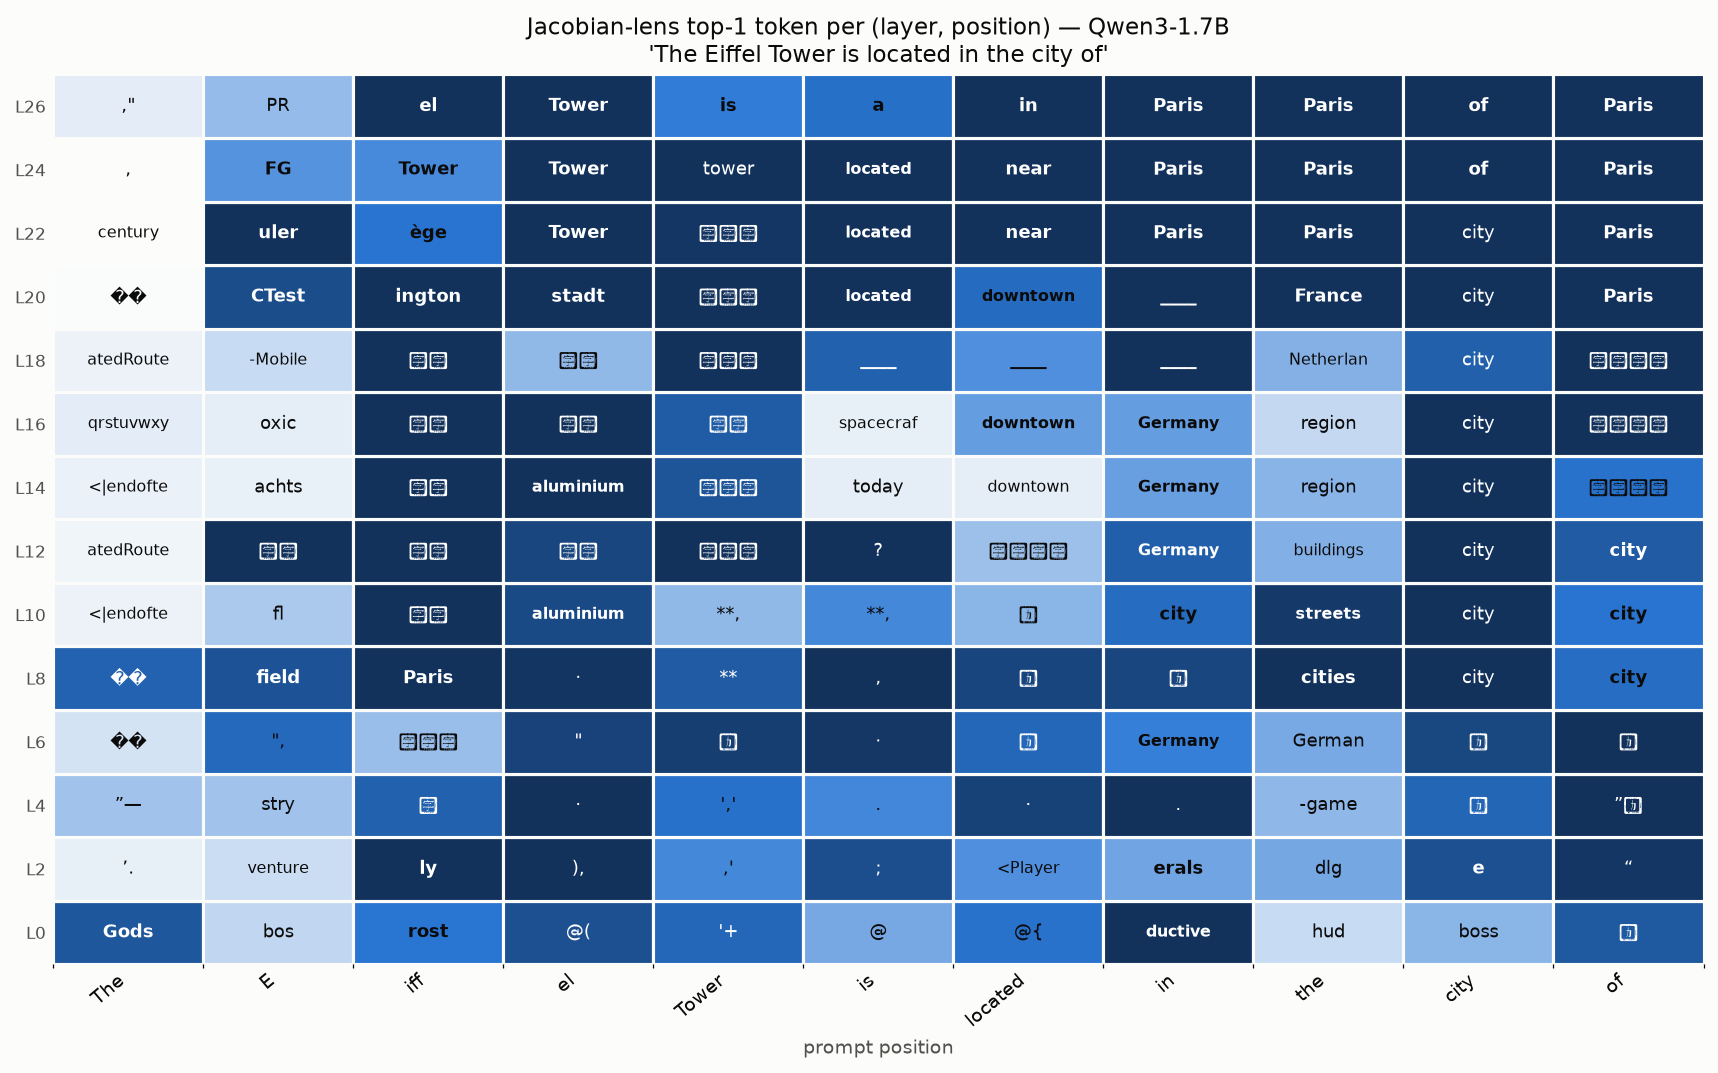
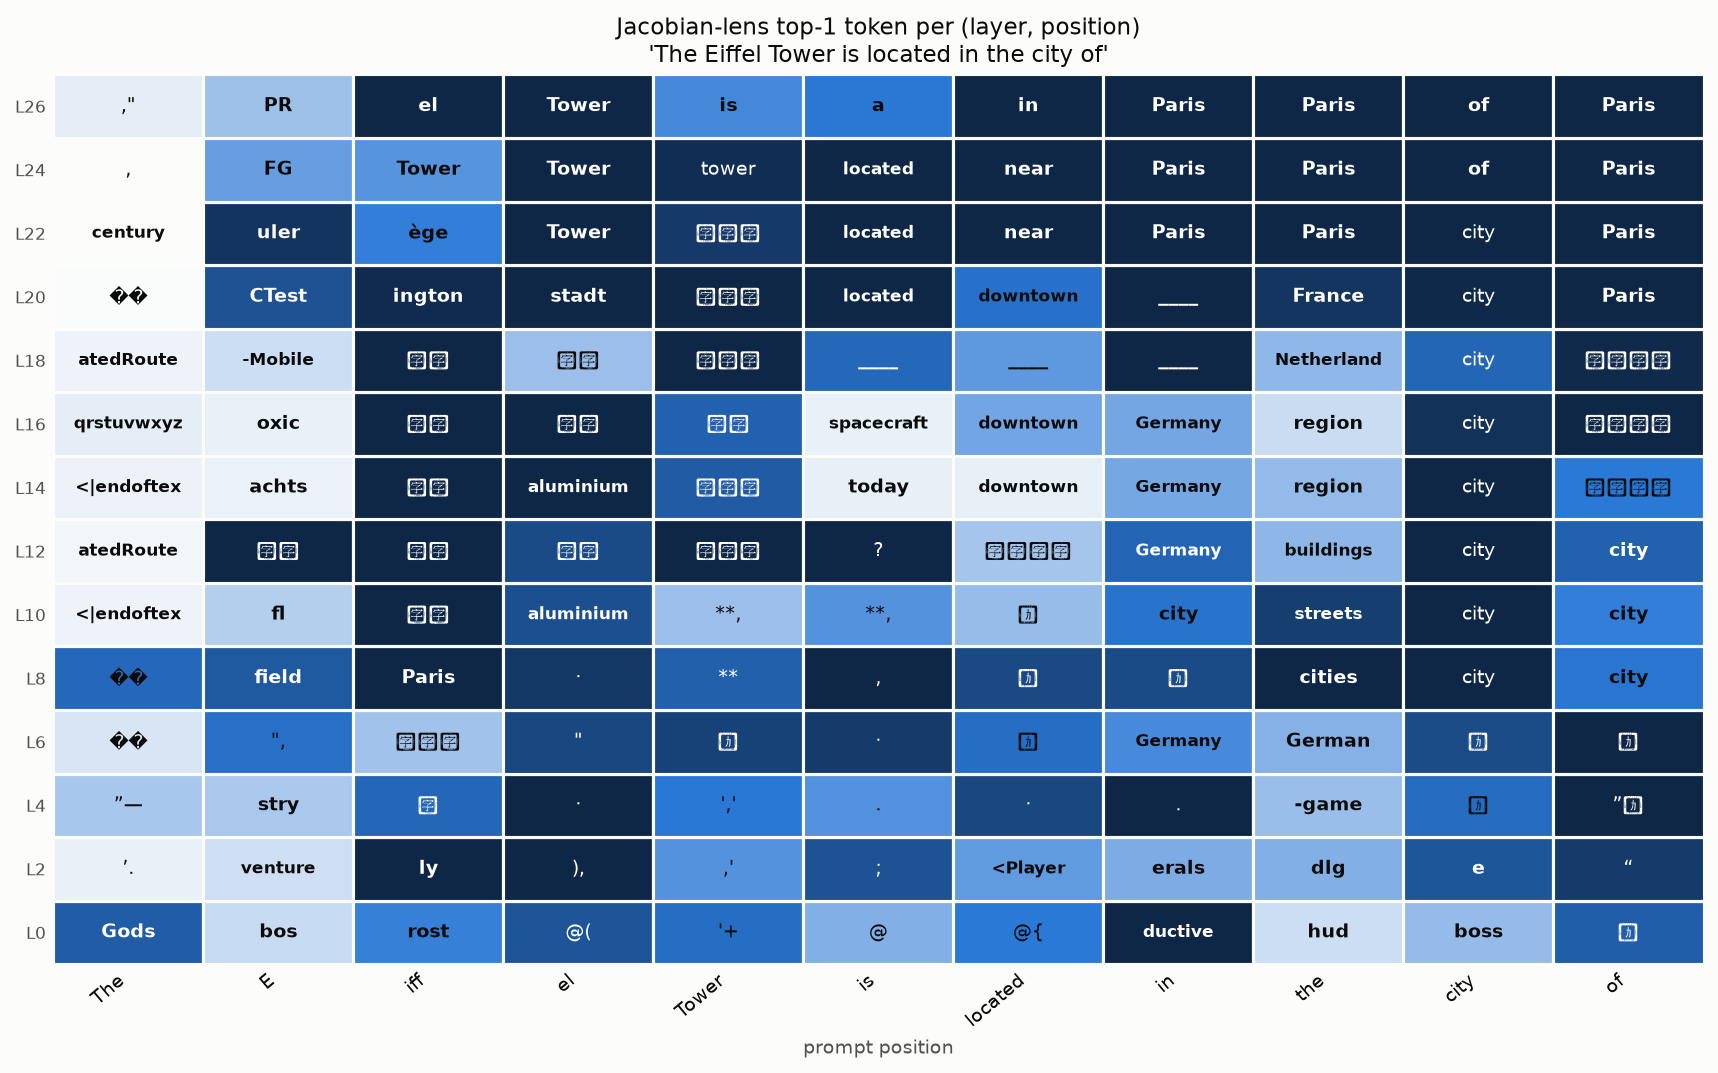
docs(jacobian_lens): single token-grid figure + reproducible, layer-parametrized script
Keep only the layer×position token grid ("what the model has in mind"); drop the
top-k-per-position and rank figures. Add make_token_grid.py (committed) that
reproduces it and takes --layer for a single-layer top-k view.

diff --git a/docs/jacobian_lens/make_token_grid.py b/docs/jacobian_lens/make_token_grid.py
@@ -1,0 +1,135 @@
+"""Render the Jacobian-lens token grid — the tokens a model has "in mind".
+
+Two modes:
+  * default: top-1 J-lens token at every (layer, position)  ["token grid by layer"]
+  * --layer L: top-k J-lens tokens per position at a single layer L  [parametrised]
+
+Reproduces the figure in the README. Runs under HF (needs all-layer residuals +
+the fitted lens); the readouts are identical to what vllm-lens captures during
+vLLM inference (verified bit-for-bit). Requires: transformers, torch, matplotlib.
+
+    python make_token_grid.py --model Qwen/Qwen3-1.7B --lens qwen3-1.7b-lens.pt \
+        --prompt "The Eiffel Tower is located in the city of" --out token_grid_by_layer.png
+    # single-layer top-k view:
+    python make_token_grid.py --model ... --lens ... --layer 22 --k 6 --out topk.png
+"""
+
+from __future__ import annotations
+
+import argparse
+
+import matplotlib
+import torch
+import transformers
+
+matplotlib.use("Agg")
+import matplotlib.pyplot as plt
+from matplotlib.colors import LinearSegmentedColormap
+
+INK, MUTED = "#0b0b0b", "#52514e"
+BLUES = LinearSegmentedColormap.from_list("bb", ["#fcfcfb", "#2a78d6", "#0e2747"])
+
+
+def load(model_name, lens_path):
+    hf = (
+        transformers.AutoModelForCausalLM.from_pretrained(model_name, dtype=torch.float32)
+        .cuda()
+        .eval()
+    )
+    tok = transformers.AutoTokenizer.from_pretrained(model_name)
+    ck = torch.load(lens_path, map_location="cpu", weights_only=True)
+    J = {int(k): v.float().cuda() for k, v in ck["J"].items()}
+    return hf, tok, J
+
+
[email redacted]_grad()
+def jlens(hf, tok, J, prompt, layer, k):
+    """Top-k tokens + probs at `layer` for every position."""
+    ids = tok(prompt, return_tensors="pt").input_ids.cuda()
+    prompt_toks = [tok.decode([t]) for t in ids[0]]
+    hs = hf(ids, output_hidden_states=True).hidden_states
+    h = hs[layer + 1][0].float()
+    logits = hf.lm_head(hf.model.norm((h @ J[layer].T).to(hf.lm_head.weight.dtype)))
+    p, idx = logits.softmax(-1).topk(k, dim=-1)  # [seq, k]
+    words = [[tok.decode([int(i)]).strip() or "·" for i in row] for row in idx]
+    return prompt_toks, words, p.tolist()
+
+
+def _cell(ax, x, y, word, prob, prompt_tok, bold_top=False):
+    ax.add_patch(plt.Rectangle((x, y), 1, 1, facecolor=BLUES(min(prob * 2.0, 1.0)),
+                               edgecolor="#fcfcfb", linewidth=1.5))
+    surfaced = word.lower() != prompt_tok.strip().lower() and any(c.isalpha() for c in word)
+    ax.text(x + 0.5, y + 0.5, word[:10], ha="center", va="center",
+            fontsize=8 if len(word) > 6 else 9,
+            color="#ffffff" if prob > 0.3 else INK,
+            fontweight="bold" if (surfaced and bold_top) else "normal")
+
+
+def grid_by_layer(hf, tok, J, prompt, layer_step, out):
+    layers = [l for l in sorted(J) if l % layer_step == 0]
+    prompt_toks = None
+    rows = {}
+    for layer in layers:
+        prompt_toks, words, probs = jlens(hf, tok, J, prompt, layer, k=1)
+        rows[layer] = ([w[0] for w in words], [p[0] for p in probs])
+    seq = len(prompt_toks)
+    fig, ax = plt.subplots(figsize=(max(7, seq * 1.05), 0.42 * len(layers) + 1.4))
+    for r, layer in enumerate(layers):
+        words, probs = rows[layer]
+        for c in range(seq):
+            _cell(ax, c, r, words[c], probs[c], prompt_toks[c], bold_top=True)
+    ax.set_xlim(0, seq); ax.set_ylim(0, len(layers))
+    ax.set_xticks([i + 0.5 for i in range(seq)])
+    ax.set_xticklabels([t.strip() or "·" for t in prompt_toks], rotation=40, ha="right", fontsize=9, color=INK)
+    ax.set_yticks([i + 0.5 for i in range(len(layers))])
+    ax.set_yticklabels([f"L{l}" for l in layers], fontsize=8, color=MUTED)
+    ax.set_xlabel("prompt position", color=MUTED, fontsize=9)
+    ax.set_title(f"Jacobian-lens top-1 token per (layer, position)\n{prompt!r}", fontsize=11, color=INK)
+    ax.tick_params(length=0)
+    for s in ax.spines.values():
+        s.set_visible(False)
+    fig.tight_layout(); fig.savefig(out, dpi=150, bbox_inches="tight", facecolor="#fcfcfb")
+    print("wrote", out)
+
+
+def grid_topk(hf, tok, J, prompt, layer, k, out):
+    prompt_toks, words, probs = jlens(hf, tok, J, prompt, layer, k)
+    seq = len(prompt_toks)
+    fig, ax = plt.subplots(figsize=(max(7, seq * 1.15), 0.5 * k + 1.6))
+    for c in range(seq):
+        for r in range(k):
+            _cell(ax, c, k - 1 - r, words[c][r], probs[c][r], prompt_toks[c], bold_top=(r == 0))
+    ax.set_xlim(0, seq); ax.set_ylim(0, k)
+    ax.set_xticks([i + 0.5 for i in range(seq)])
+    ax.set_xticklabels([t.strip() or "·" for t in prompt_toks], rotation=40, ha="right", fontsize=10, color=INK)
+    ax.set_yticks([k - 0.5 - i for i in range(k)])
+    ax.set_yticklabels([f"top-{i + 1}" for i in range(k)], fontsize=8, color=MUTED)
+    ax.set_xlabel("prompt position", color=MUTED, fontsize=9)
+    ax.set_title(f"Top-{k} Jacobian-lens tokens per position @ layer {layer}\n{prompt!r}", fontsize=11, color=INK)
+    ax.tick_params(length=0)
+    for s in ax.spines.values():
+        s.set_visible(False)
+    fig.tight_layout(); fig.savefig(out, dpi=150, bbox_inches="tight", facecolor="#fcfcfb")
+    print("wrote", out)
+
+
+def main():
+    ap = argparse.ArgumentParser()
+    ap.add_argument("--model", default="Qwen/Qwen3-1.7B")
+    ap.add_argument("--lens", required=True)
+    ap.add_argument("--prompt", default="The Eiffel Tower is located in the city of")
+    ap.add_argument("--layer", type=int, default=None, help="single layer -> top-k per position")
+    ap.add_argument("--layer-step", type=int, default=2, help="grid-by-layer: show every Nth layer")
+    ap.add_argument("--k", type=int, default=6)
+    ap.add_argument("--out", default="token_grid.png")
+    args = ap.parse_args()
+
+    hf, tok, J = load(args.model, args.lens)
+    if args.layer is not None:
+        grid_topk(hf, tok, J, args.prompt, args.layer, args.k, args.out)
+    else:
+        grid_by_layer(hf, tok, J, args.prompt, args.layer_step, args.out)
+
+
+if __name__ == "__main__":
+    main()

diff --git a/README.md b/README.md
@@ -215,21 +215,20 @@ python examples/jacobian_lens.py run \
 
 This prints the (layer × position) top-1 concept grid — e.g. *Paris* emerges several layers before the model's actual next token. Pass `--baseline` to drop the `J_l` transport (plain logit-lens comparison). `run` also accepts a pre-fitted lens from the Hub (e.g. [Neuronpedia](https://huggingface.co/neuronpedia/jacobian-lens)) in place of a locally-fit one; its `d_model` must match the served model.
 
-**What does the model have "in mind"?** The top-k Jacobian-lens tokens at each prompt position (here at one mid/late layer of Qwen3-1.7B) surface concepts the model is *disposed toward* but hasn't emitted. On *"…the currency used in Japan is the"*, the ` in` position holds a slate of **countries** (France, Argentina, Japan, Italy, Brazil) and the final positions hold **yen** (with *Japanese*, *dollar*):
-
-![Top-k Jacobian-lens tokens per position — Japan / yen](docs/jacobian_lens/topk_tokens_japan.png)
-
-On *"The Eiffel Tower is located in the city of"*, the ` of` position reads out **Paris, France, Marseille, London** — the model's candidate cities — while ` in`/` the` are dominated by *Paris*/*France*:
-
-![Top-k Jacobian-lens tokens per position — Eiffel / Paris](docs/jacobian_lens/topk_tokens_eiffel.png)
-
-Reading the top-1 token across *every* (layer, position) shows the concept forming with depth — *Paris*/*France* crystallize at the final positions in the upper layers, and appear at the **"Eiffel"** token itself in the middle layers (early layers are noise; rare non-Latin tokens render as boxes):
+**What does the model have "in mind"?** Reading the top-1 Jacobian-lens token at every (layer, position) shows concepts the model is *disposed toward* but hasn't emitted, forming with depth. On Qwen3-1.7B, *Paris*/*France* crystallize at the final positions in the upper layers — and appear at the **"Eiffel"** token itself in the middle layers (early layers are noise; rare non-Latin tokens render as boxes):
 
 ![Top-1 Jacobian-lens token per layer × position](docs/jacobian_lens/token_grid_by_layer.png)
 
-**Quantitatively**, tracking the rank of the answer token by layer, the Jacobian lens drives it to rank 1 in the mid/late layers — earlier and more decisively than the plain logit lens (readouts are bit-identical whether residuals come from vLLM or HF):
+Reproduce it (and parametrize the layer) with [`docs/jacobian_lens/make_token_grid.py`](docs/jacobian_lens/make_token_grid.py):
 
-![Jacobian lens vs logit lens: rank of the answer token by layer](docs/jacobian_lens/jlens_vs_logitlens.png)
+```bash
+python docs/jacobian_lens/make_token_grid.py --model Qwen/Qwen3-1.7B --lens qwen3-1.7b-lens.pt \
+    --prompt "The Eiffel Tower is located in the city of" --out token_grid_by_layer.png
+# top-k tokens per position at a single layer:
+python docs/jacobian_lens/make_token_grid.py --model ... --lens ... --layer 22 --k 6 --out topk.png
+```
+
+(Residuals here come from HF; they're bit-identical to what vllm-lens captures during vLLM inference, so the grid is the same either way.)
 
 ### Inspect AI provider
 